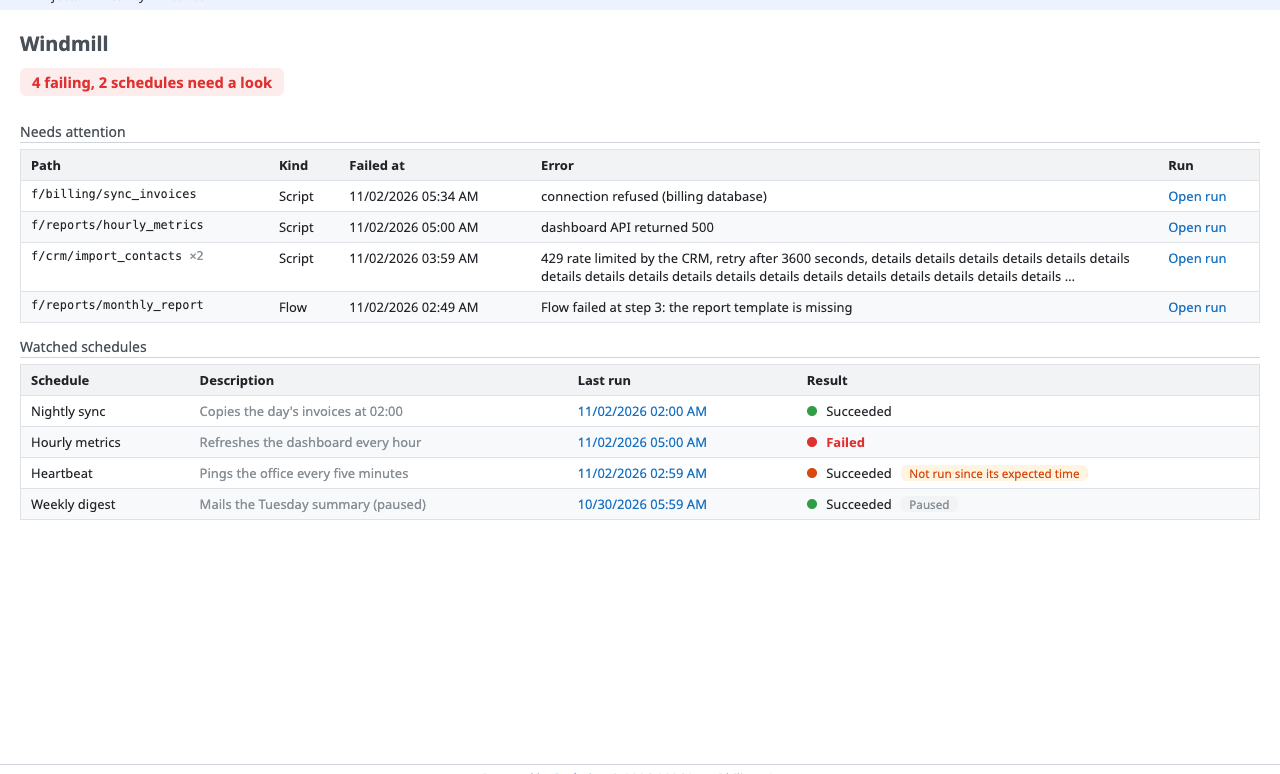
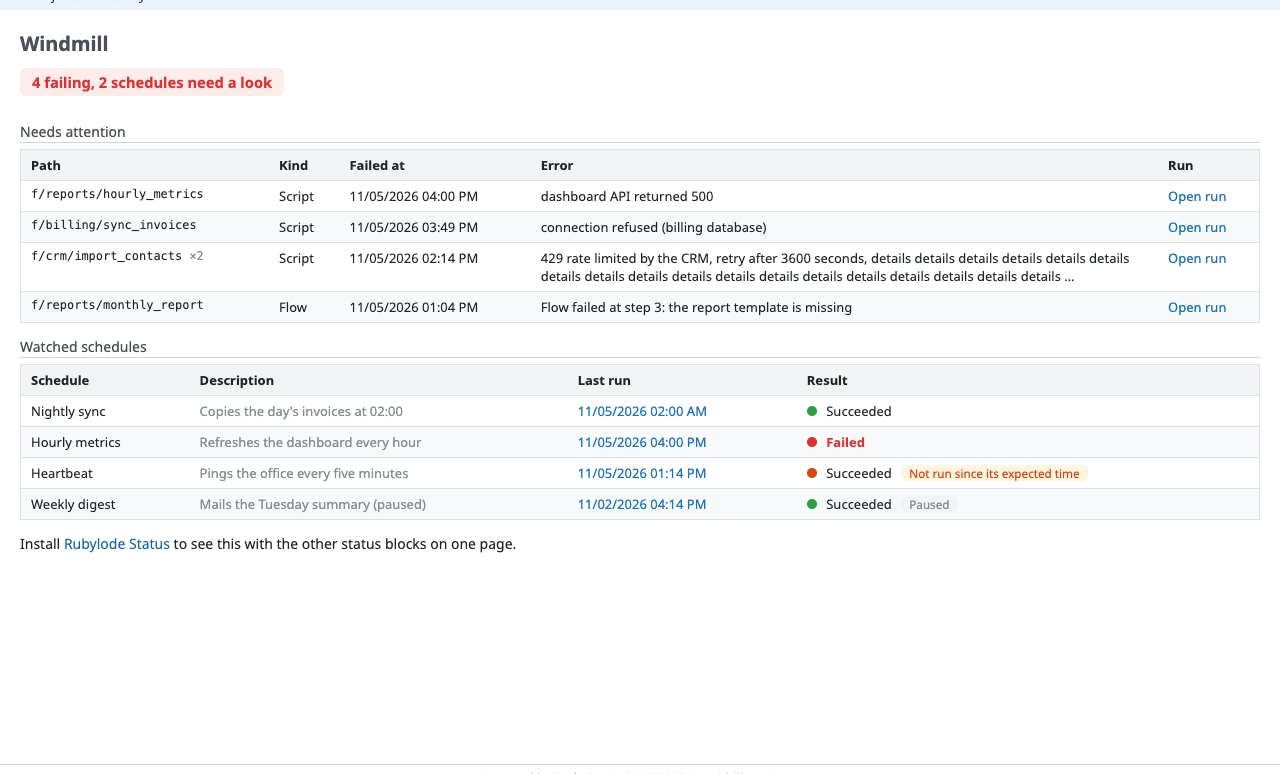
docs: retake the screenshots for 2.0.0
The settings shot now shows the Show the block on section, the Column
selects and the Rubylode Status notice. The status shots come from
/status/windmill.

diff --git a/README.md b/README.md
@@ -121,7 +121,7 @@ The top menu entry is a plugin menu item (`menu :top_menu, ...` in `init.rb`). I
 
 The page of its own moved from `/windmill_status` to `/status/windmill`. The old address redirects there for one release. When [Rubylode Status](https://github.com/rubylode/redmine-rubylode-status) is installed, this plugin registers its block with it, so the block also shows on the Status page, the plugin's own top menu item and its "Show in the top menu" setting go away, and the settings page says so. Without Rubylode Status nothing changes.
 
-![Where to show the block, and the help under the settings](docs/screenshots/settings-where-to-show.png)
+![Where to show the block, the Rubylode Status notice and the help under the settings](docs/screenshots/settings-where-to-show.png)
 
 ## Security
 
